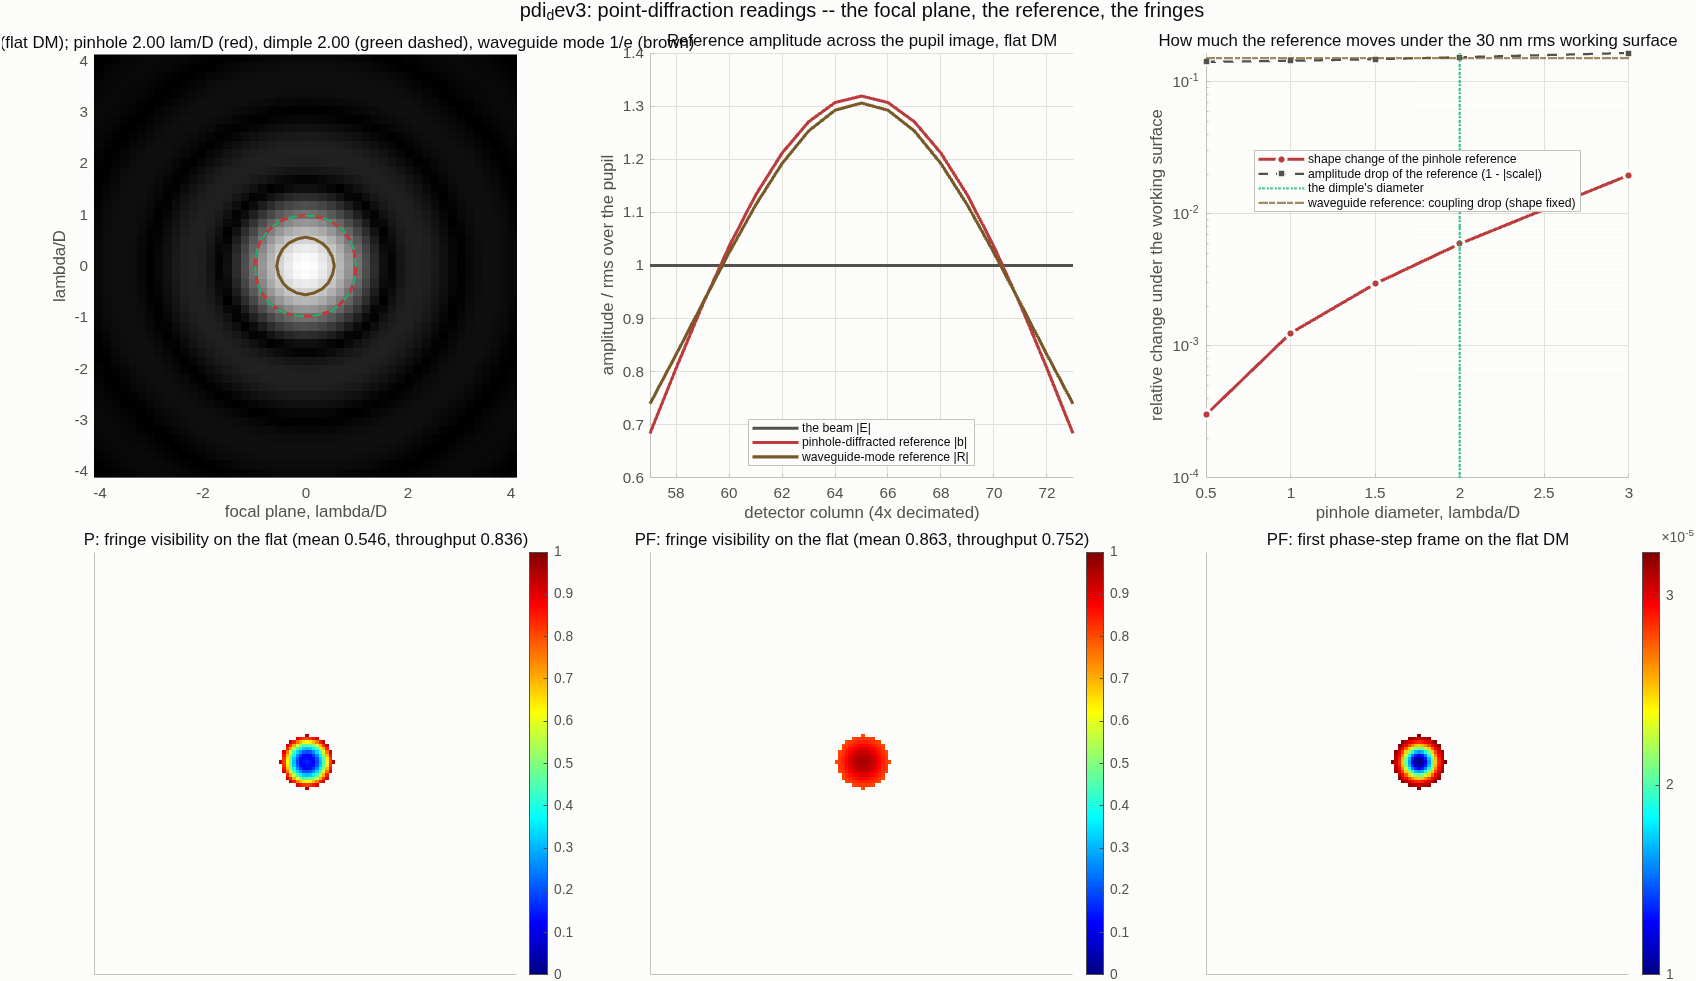
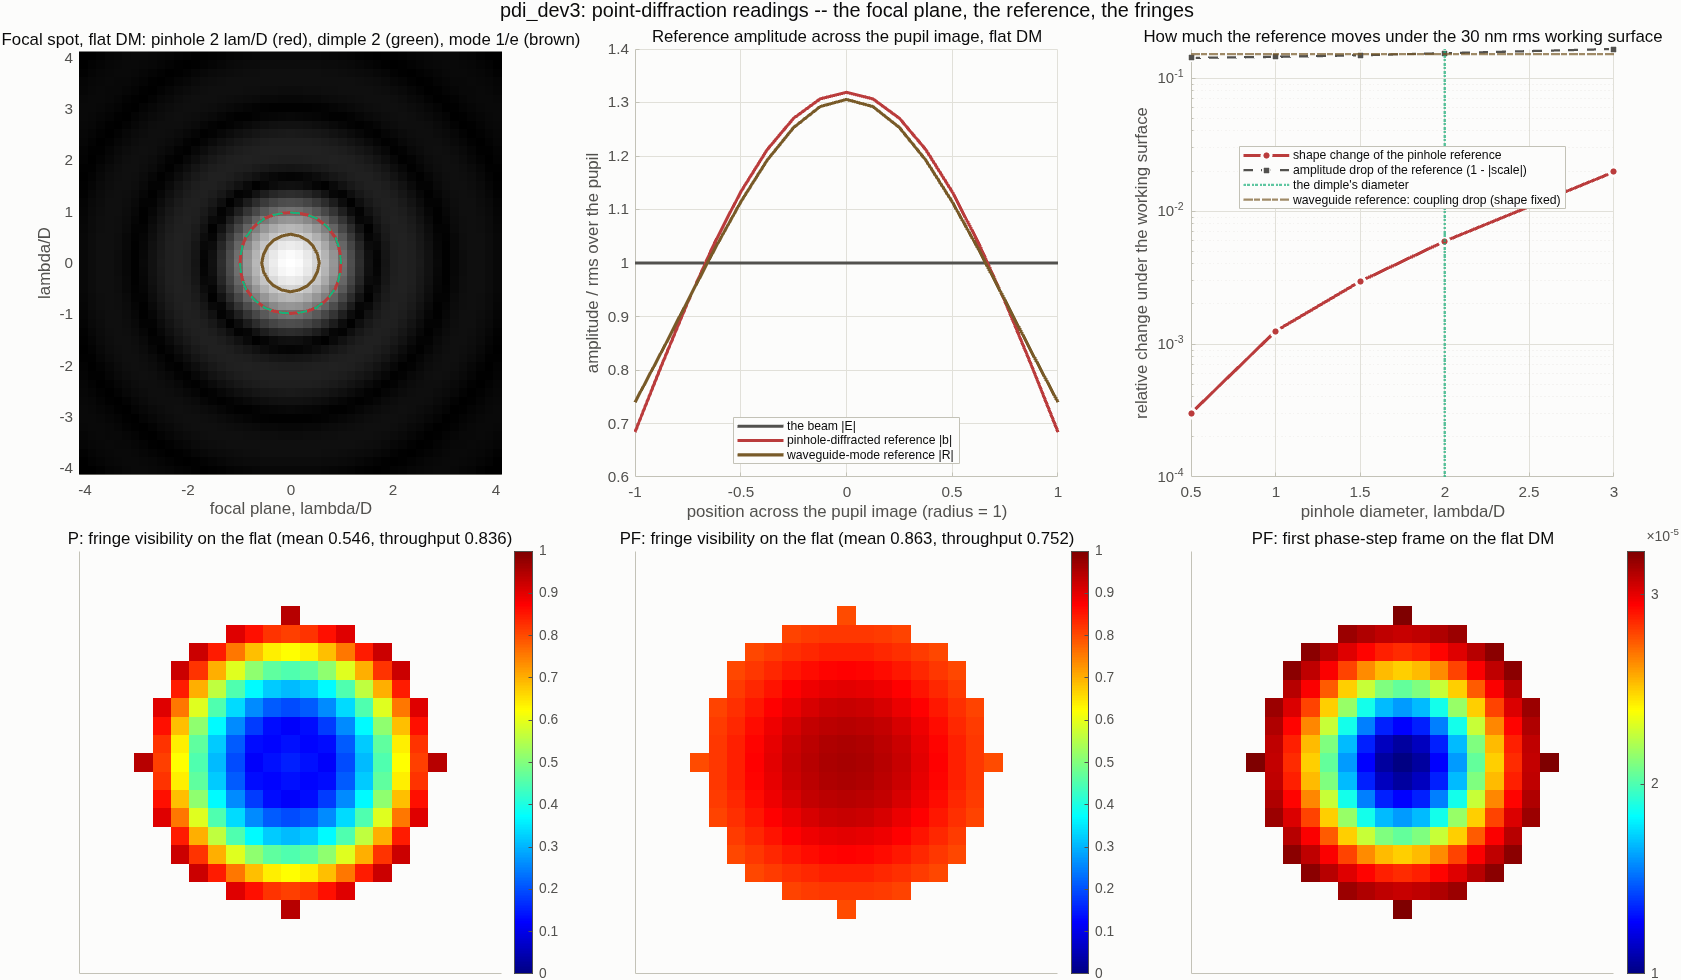
PDI figure: no TeX in the tag, normalized pupil axis, pupil panels cropped to the mask
Claude-Session: https://claude.ai/code/session_01RuX6Hc5txP1E9QGjcSo42d

diff --git a/mmacos/templates/40_benches/zwfs_dm96/zwfs_run_figs.m b/mmacos/templates/40_benches/zwfs_dm96/zwfs_run_figs.m
@@ -107,7 +107,7 @@ if isfield(out.bench, 'g567') && isfield(out.bench.g567, 'figdata')
     f = figure('Color', surf_c, 'Position', [100 100 1500 900], 'Visible', 'off');
     tl = tiledlayout(2, 3, 'Padding', 'compact', 'TileSpacing', 'compact');
     tl.Title.String = sprintf('%s: point-diffraction readings -- the focal plane, the reference, the fringes', P.tag);
-    tl.Title.FontSize = 13;  tl.Title.Color = ink;
+    tl.Title.FontSize = 13;  tl.Title.Color = ink;  tl.Title.Interpreter = 'none';
     % (1) the focal spot with the pinhole, the dimple and the waveguide mode
     ax = nexttile;  hold(ax, 'on');
     nwin = size(fd.spot, 1);  xl = ((1:nwin) - (nwin+1)/2) / fd.px_per_lamd;
@@ -116,16 +116,17 @@ if isfield(out.bench, 'g567') && isfield(out.bench.g567, 'figdata')
     contour(ax, xl, xl, fd.dimple, [0.5 0.5], '--', 'Color', pal.S, 'LineWidth', 1.5);
     if ~isempty(fd.mode), contour(ax, xl, xl, fd.mode / max(fd.mode(:)), exp(-1)*[1 1], 'Color', pal.PF, 'LineWidth', 2); end
     xlabel(ax, 'focal plane, lambda/D', 'Color', ink2);  ylabel(ax, 'lambda/D', 'Color', ink2);
-    title(ax, sprintf('Focal spot (flat DM); pinhole %.2f lam/D (red), dimple %.2f (green dashed), waveguide mode 1/e (brown)', fd.pin_dia_lamd, fd.dimple_dia_lamd), 'Color', ink, 'FontWeight', 'normal', 'FontSize', 9);
+    title(ax, sprintf('Focal spot, flat DM: pinhole %.2g lam/D (red), dimple %.2g (green), mode 1/e (brown)', fd.pin_dia_lamd, fd.dimple_dia_lamd), 'Color', ink, 'FontWeight', 'normal', 'FontSize', 9);
     style_(ax, grid_c, axis_c, ink2, surf_c);
     % (2) reference amplitude across the pupil (center row through the mask)
     ax = nexttile;  hold(ax, 'on');
     [ry, rx] = find(fd.msk);  cy = round(mean(ry));  cols = min(rx):max(rx);
+    xn = (cols - mean(cols)) / ((max(rx) - min(rx))/2);            % normalized pupil coordinate
     row = @(map) map(cy, cols) / sqrt(mean(map(fd.msk).^2));       % the centre row, in units of the rms over the pupil
-    plot(ax, cols, row(fd.E0), 'Color', ink2, 'LineWidth', 2, 'DisplayName', 'the beam |E|');
-    plot(ax, cols, row(fd.Eb), 'Color', pal.P, 'LineWidth', 2, 'DisplayName', 'pinhole-diffracted reference |b|');
-    if ~isempty(fd.Rfib), plot(ax, cols, row(fd.Rfib), 'Color', pal.PF, 'LineWidth', 2, 'DisplayName', 'waveguide-mode reference |R|'); end
-    xlim(ax, [cols(1) cols(end)]);  xlabel(ax, 'detector column (4x decimated)', 'Color', ink2);  ylabel(ax, 'amplitude / rms over the pupil', 'Color', ink2);
+    plot(ax, xn, row(fd.E0), 'Color', ink2, 'LineWidth', 2, 'DisplayName', 'the beam |E|');
+    plot(ax, xn, row(fd.Eb), 'Color', pal.P, 'LineWidth', 2, 'DisplayName', 'pinhole-diffracted reference |b|');
+    if ~isempty(fd.Rfib), plot(ax, xn, row(fd.Rfib), 'Color', pal.PF, 'LineWidth', 2, 'DisplayName', 'waveguide-mode reference |R|'); end
+    xlim(ax, [-1 1]);  xlabel(ax, 'position across the pupil image (radius = 1)', 'Color', ink2);  ylabel(ax, 'amplitude / rms over the pupil', 'Color', ink2);
     title(ax, 'Reference amplitude across the pupil image, flat DM', 'Color', ink, 'FontWeight', 'normal');
     grid(ax, 'on');  style_(ax, grid_c, axis_c, ink2, surf_c);  legend(ax, 'Location', 'south', 'TextColor', ink, 'Color', surf_c, 'EdgeColor', axis_c, 'FontSize', 8);
     % (3) the reference's motion under the working state vs pinhole diameter
@@ -138,14 +139,16 @@ if isfield(out.bench, 'g567') && isfield(out.bench.g567, 'figdata')
     title(ax, sprintf('How much the reference moves under the %g nm rms working surface', P.battery.base_rms*1e6), 'Color', ink, 'FontWeight', 'normal');
     grid(ax, 'on');  style_(ax, grid_c, axis_c, ink2, surf_c);  legend(ax, 'Location', 'best', 'TextColor', ink, 'Color', surf_c, 'EdgeColor', axis_c, 'FontSize', 8);
     % (4-5) visibility maps on the flat, (6) a first frame
+    mg = 3;  rr_ = max(1, min(ry)-mg):min(size(fd.msk,1), max(ry)+mg);  cc_ = max(1, min(rx)-mg):min(size(fd.msk,2), max(rx)+mg);
+    crop = @(v) v(rr_, cc_);
     for j = 1:min(2, numel(rds))
-        ax = nexttile;  v = fd.(['vis_' rds{j}]);  v(~fd.msk) = NaN;
+        ax = nexttile;  v = fd.(['vis_' rds{j}]);  v(~fd.msk) = NaN;  v = crop(v);
         imagesc(ax, v, 'AlphaData', ~isnan(v));  axis(ax, 'image');  set(ax, 'YDir', 'normal');  colormap(ax, jet);  caxis(ax, [0 1]);  cb = colorbar(ax);  cb.Color = ink2;
         title(ax, sprintf('%s: fringe visibility on the flat (mean %.3f, throughput %.3f)', rds{j}, g.(rds{j}).vis, g.(rds{j}).throughput), 'Color', ink, 'FontWeight', 'normal', 'FontSize', 9);
         set(ax, 'XTick', [], 'YTick', []);  style_(ax, grid_c, axis_c, ink2, surf_c);
     end
     if ~isempty(rds)
-        ax = nexttile;  v = fd.(['frame0_' rds{end}]);  v(~fd.msk) = NaN;
+        ax = nexttile;  v = fd.(['frame0_' rds{end}]);  v(~fd.msk) = NaN;  v = crop(v);
         imagesc(ax, v, 'AlphaData', ~isnan(v));  axis(ax, 'image');  set(ax, 'YDir', 'normal');  colormap(ax, jet);  cb = colorbar(ax);  cb.Color = ink2;
         title(ax, sprintf('%s: first phase-step frame on the flat DM', rds{end}), 'Color', ink, 'FontWeight', 'normal', 'FontSize', 9);
         set(ax, 'XTick', [], 'YTick', []);  style_(ax, grid_c, axis_c, ink2, surf_c);
